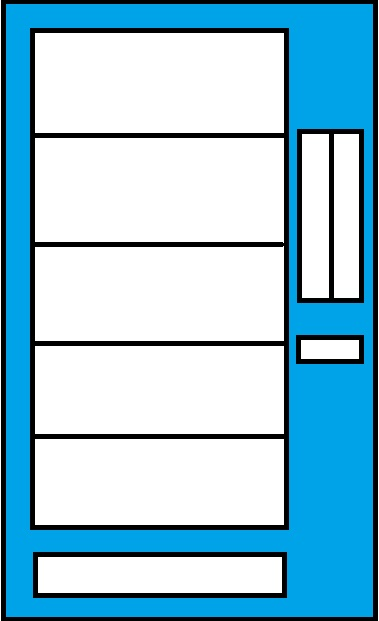
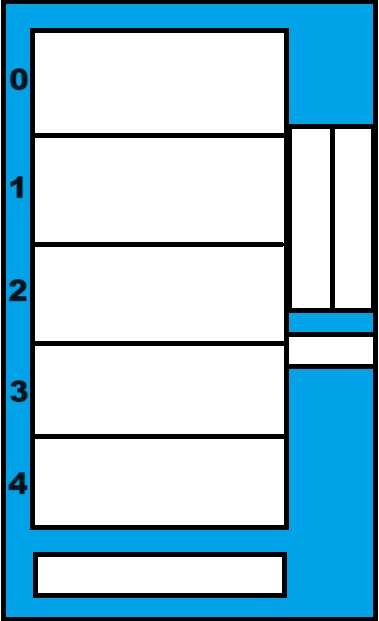
Agregados botones sin funcionalidad.

diff --git a/Tarea-3/src/main/java/org/Grafica/PantallaExpendedor.java b/Tarea-3/src/main/java/org/Grafica/PantallaExpendedor.java
@@ -17,28 +17,34 @@ public class PantallaExpendedor extends JPanel {
         try {
             imagen = ImageIO.read(new File("src/main/java/org/Grafica/Imagenes/Expende.jpg"));
         }catch (IOException e){}
-        BotonSeleccionar();
+
         agregarImagenProductos((new ImageIcon("src/main/java/org/Grafica/Imagenes/Coca.jpg")).getImage(),5,55);
         agregarImagenProductos((new ImageIcon("src/main/java/org/Grafica/Imagenes/Sprite.jpg")).getImage(),5,180);
         agregarImagenProductos((new ImageIcon("src/main/java/org/Grafica/Imagenes/Fanta.jpg")).getImage(),5,305);
         agregarImagenProductos((new ImageIcon("src/main/java/org/Grafica/Imagenes/Snicker.png")).getImage(),5,420);
         agregarImagenProductos((new ImageIcon("src/main/java/org/Grafica/Imagenes/Super8.jpg")).getImage(),5,535);
+        BotonSeleccionar("0",385,156,50,72);
+        BotonSeleccionar("2",385,228,50,72);
+        BotonSeleccionar("4",385,300,50,72);
+        BotonSeleccionar("1",442,156,50,72);
+        BotonSeleccionar("3",442,228,50,72);
+        BotonSeleccionar("5",442,300,50,72);
+        BotonSeleccionar("Pon Moneda",381,407,111,33);
     }
     @Override
     public void paintComponent(Graphics G){
         super.paintComponent(G);
         G.drawImage(imagen,0,0,getWidth(),getHeight(),this);
     }
-    public void BotonSeleccionar(){
-        insertarMoneda=new JButton("0");
-        insertarMoneda.setBounds(200,35,40,70);
+    public void BotonSeleccionar(String numero,int x,int y,int width,int height){
+        insertarMoneda=new JButton(numero);
+        insertarMoneda.setBounds(x,y,width,height);
         setLayout(null);
         add(insertarMoneda);
 
     }
     public void agregarImagenProductos(Image i, int cantidad,int altura){
         for(int j=0;j<5;j++) {
-            if(j>=5){break;}
             producto = new JLabel(new ImageIcon(i.getScaledInstance(80, 80, Image.SCALE_SMOOTH)));
             producto.setBounds(50+(63*j), altura, 70, 100);
             add(producto);
